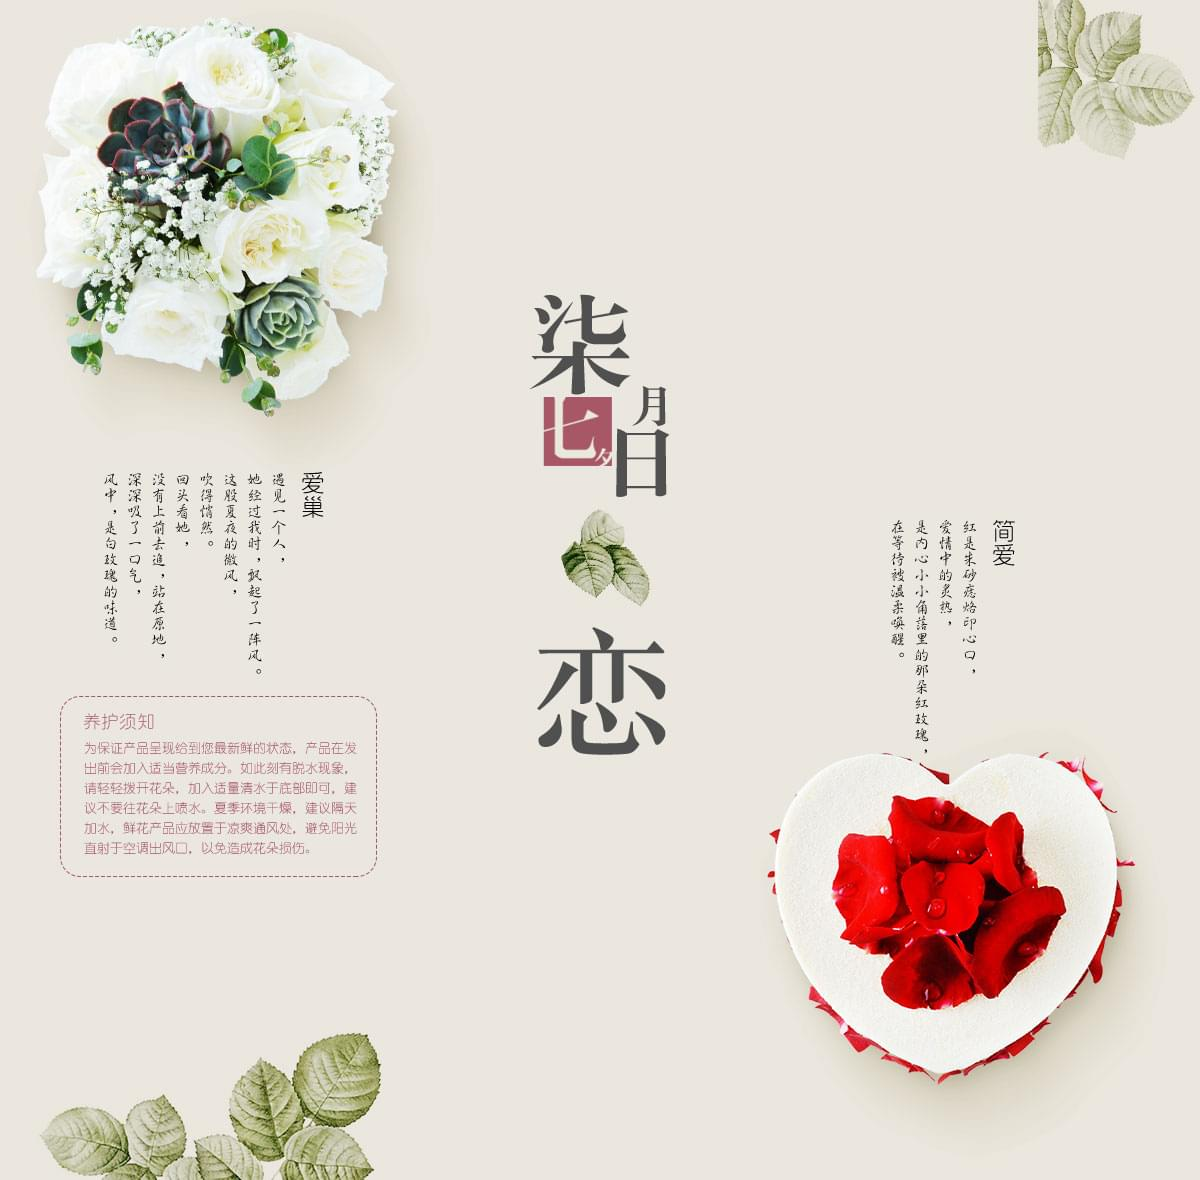
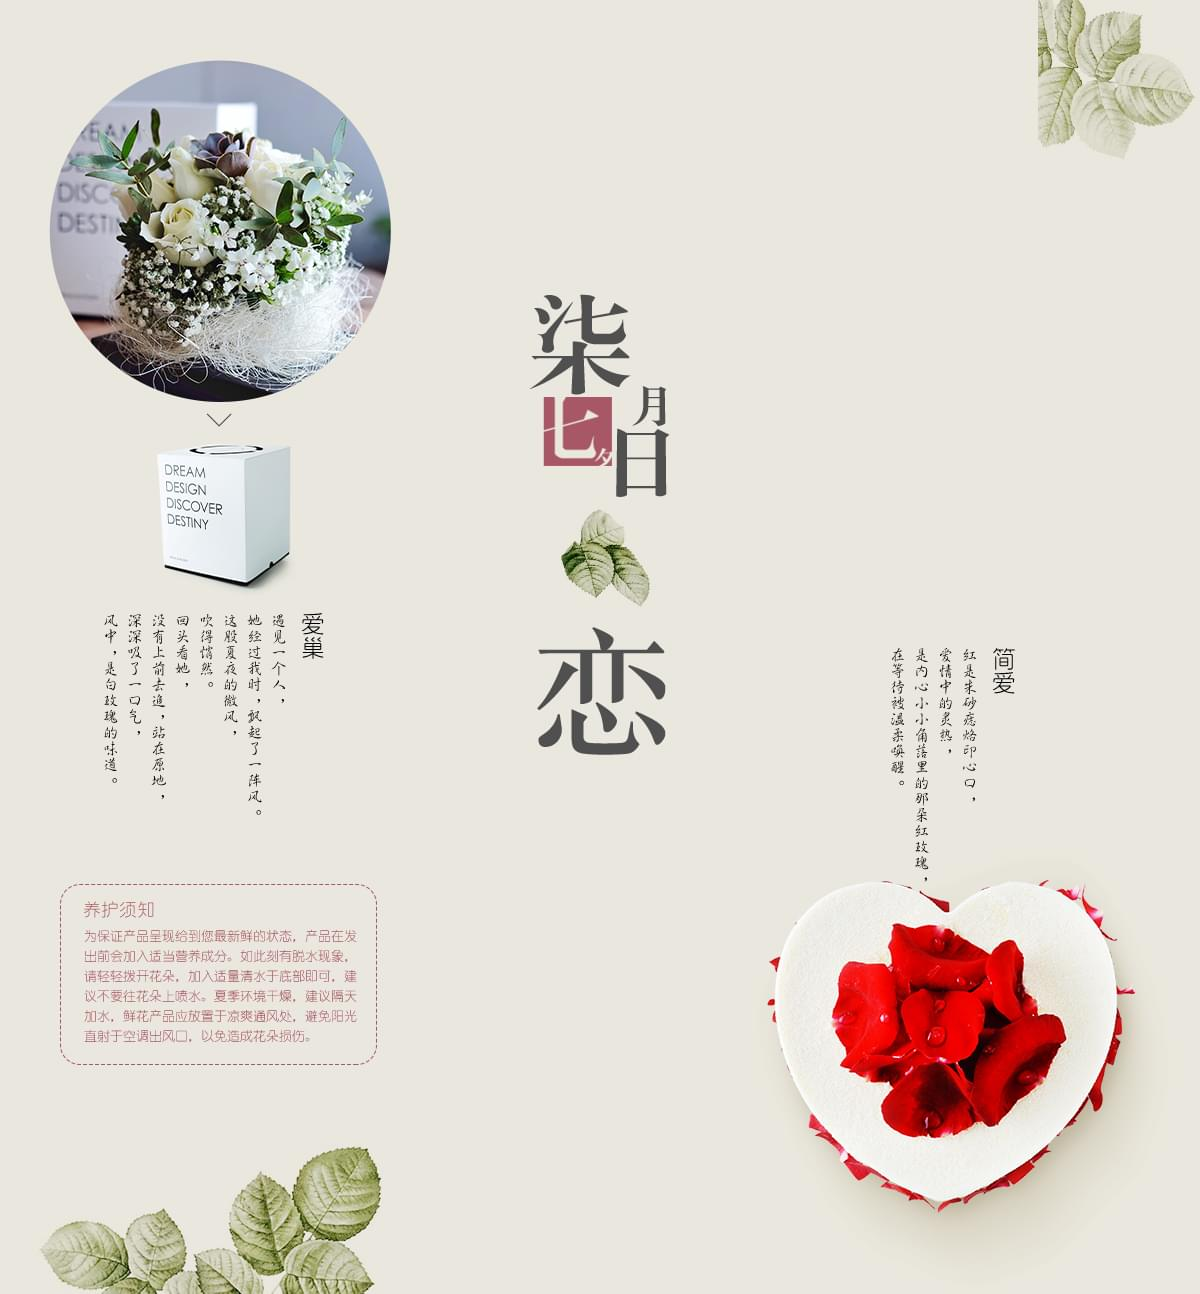
修改七夕活动

diff --git a/assets/css/qixi.css b/assets/css/qixi.css
@@ -1,12 +1,9 @@
 #qixi { width: 100%; min-width: 1200px; overflow: hidden; }
 #qixi .qixi-wrapper { width: 100%; background-color: #eae7de; }
-#qixi .qixi-wrapper .qx-content { position: relative; width: 1200px; height: 1180px; margin: 0 auto; background: url('../img/qixi/bg.jpg') no-repeat; }
-#qixi .qixi-wrapper .qx-content-hd { height: 1294px; background: url('../img/qixi/bg-hd.jpg') no-repeat; }
+#qixi .qixi-wrapper .qx-content { position: relative; width: 1200px; height: 1294px; margin: 0 auto; background: url('../img/qixi/bg.jpg') no-repeat; }
 #qixi .qixi-wrapper .qx-content .btn-buy { display: block; position: absolute; top: 0; right: 162px; width: 174px; height: 407px; background: url('../img/qixi/btn_buy.jpg') no-repeat; }
-#qixi .qixi-wrapper .qx-content .btn-lovehouse { display: block; position: absolute; top: 544px; left: 318px; width: 48px; height: 48px; background: url('../img/qixi/detail_bg.png') no-repeat; border-radius: 50%; overflow: hidden; }
-#qixi .qixi-wrapper .qx-content .btn-lovehouse-hd { top: 680px; }
-#qixi .qixi-wrapper .qx-content .btn-simplelove { display: block; position: absolute; top: 595px; right: 149px; width: 48px; height: 48px; background: url('../img/qixi/detail_bg.png') no-repeat; border-radius: 50%; overflow: hidden; }
-#qixi .qixi-wrapper .qx-content .btn-simplelove-hd { top: 718px; }
+#qixi .qixi-wrapper .qx-content .btn-lovehouse { display: block; position: absolute; top: 680px; left: 318px; width: 48px; height: 48px; background: url('../img/qixi/detail_bg.png') no-repeat; border-radius: 50%; overflow: hidden; }
+#qixi .qixi-wrapper .qx-content .btn-simplelove { display: block; position: absolute; top: 718px; right: 149px; width: 48px; height: 48px; background: url('../img/qixi/detail_bg.png') no-repeat; border-radius: 50%; overflow: hidden; }
 #qixi .qixi-wrapper .qx-rules { width: 100%; background-color: #505050; }
 #qixi .qixi-wrapper .qx-rules .inner { width: 1200px; height: 210px; margin: 0 auto; background: url('../img/qixi/rules_bg.jpg') no-repeat; }
 
